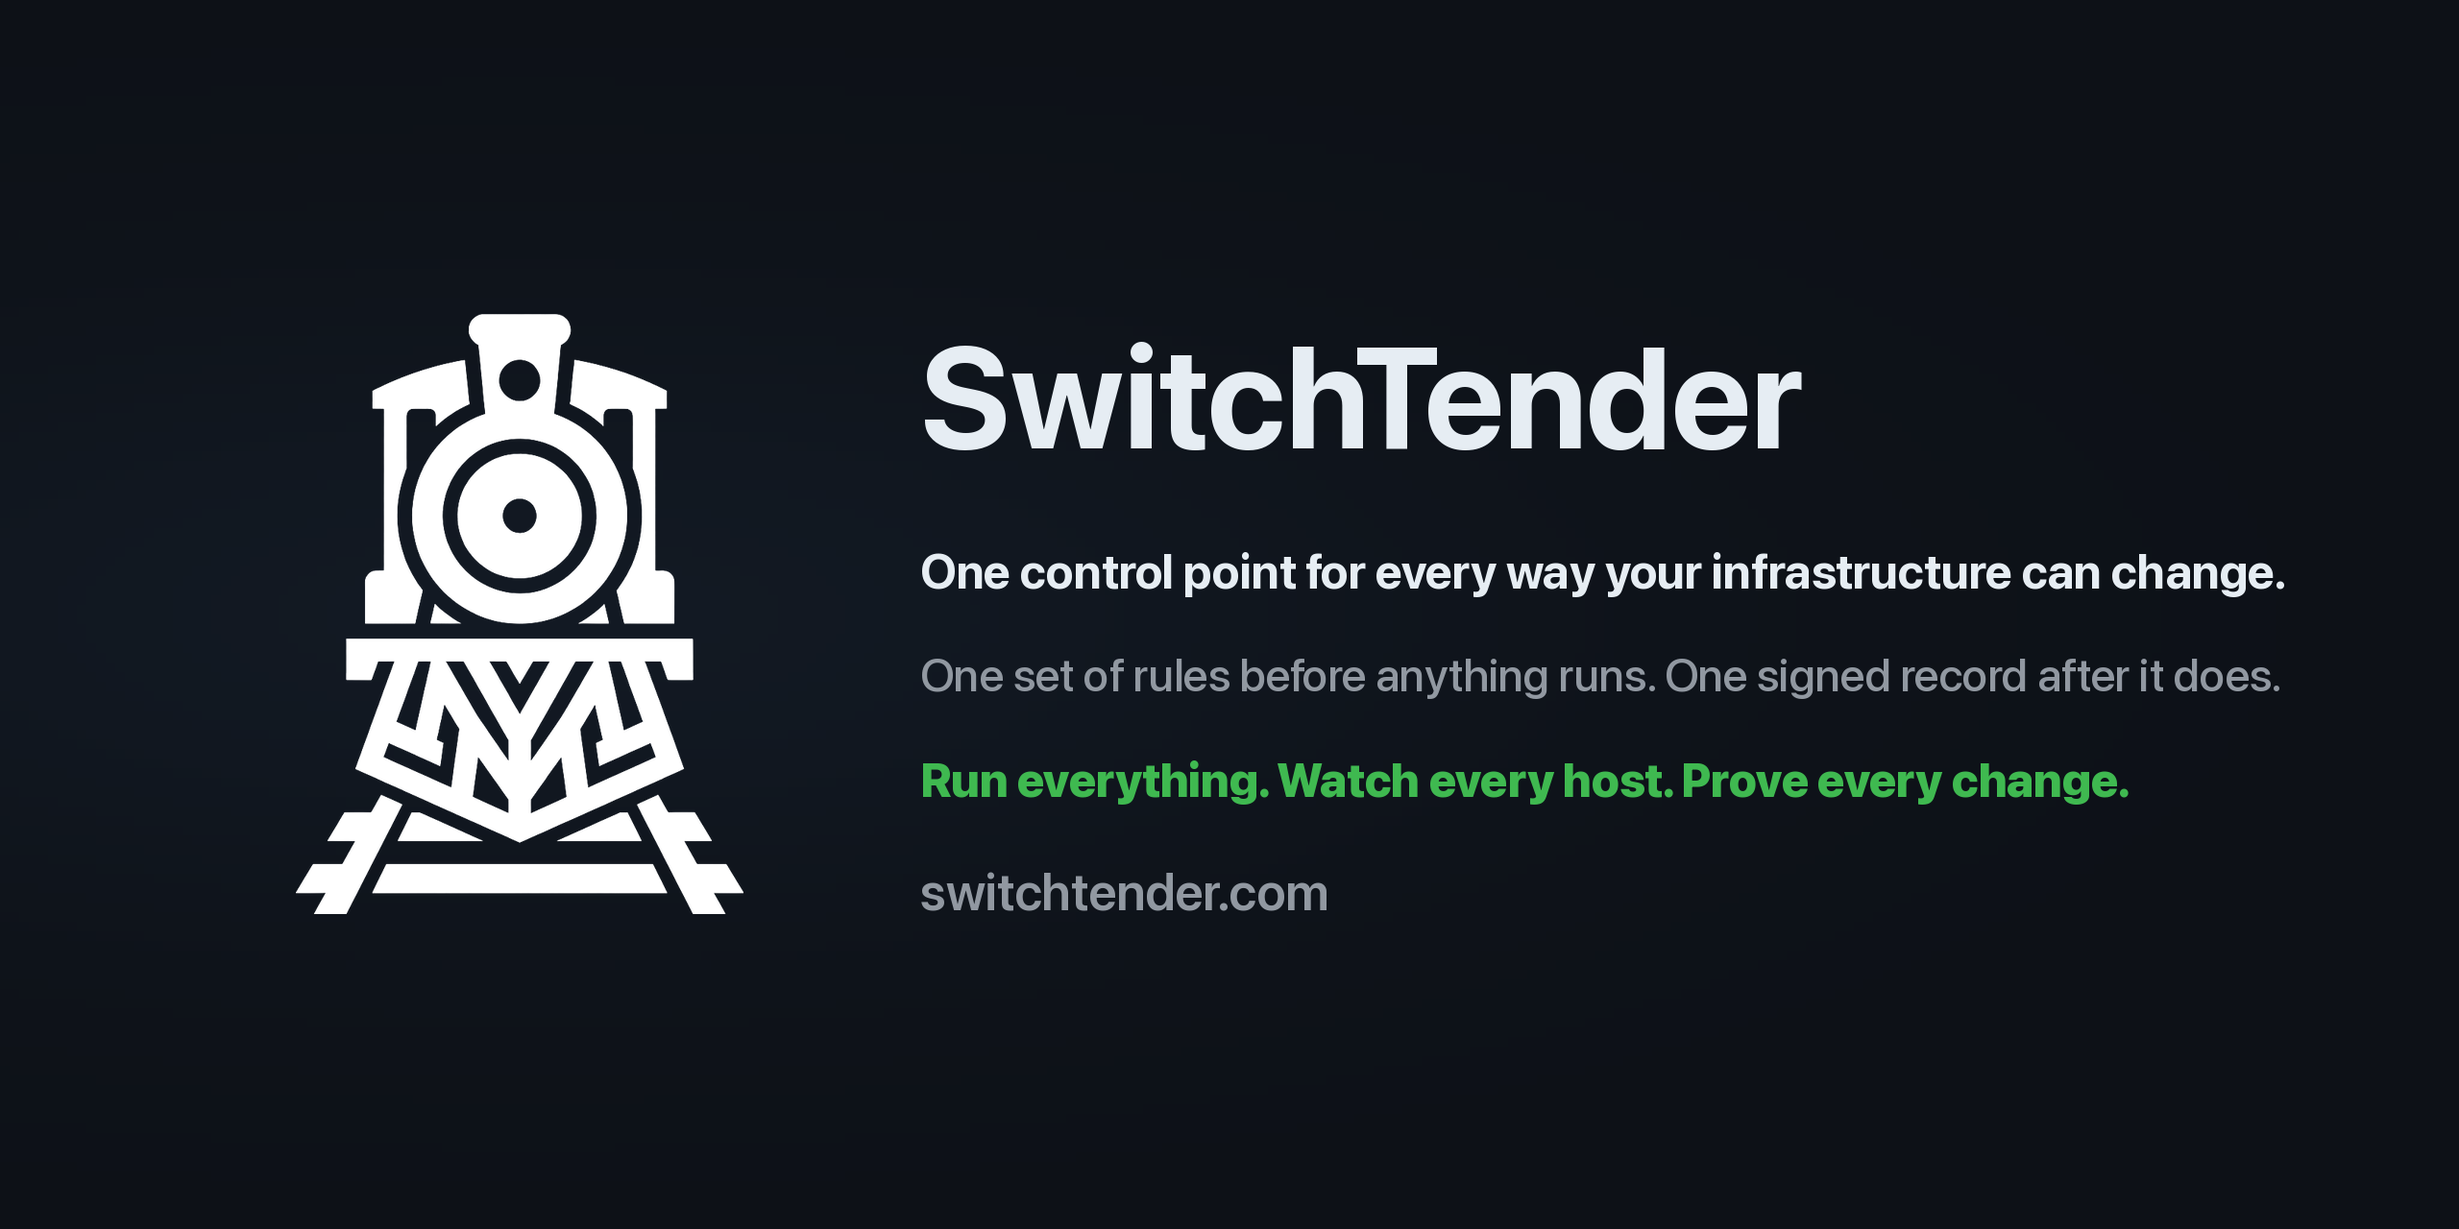
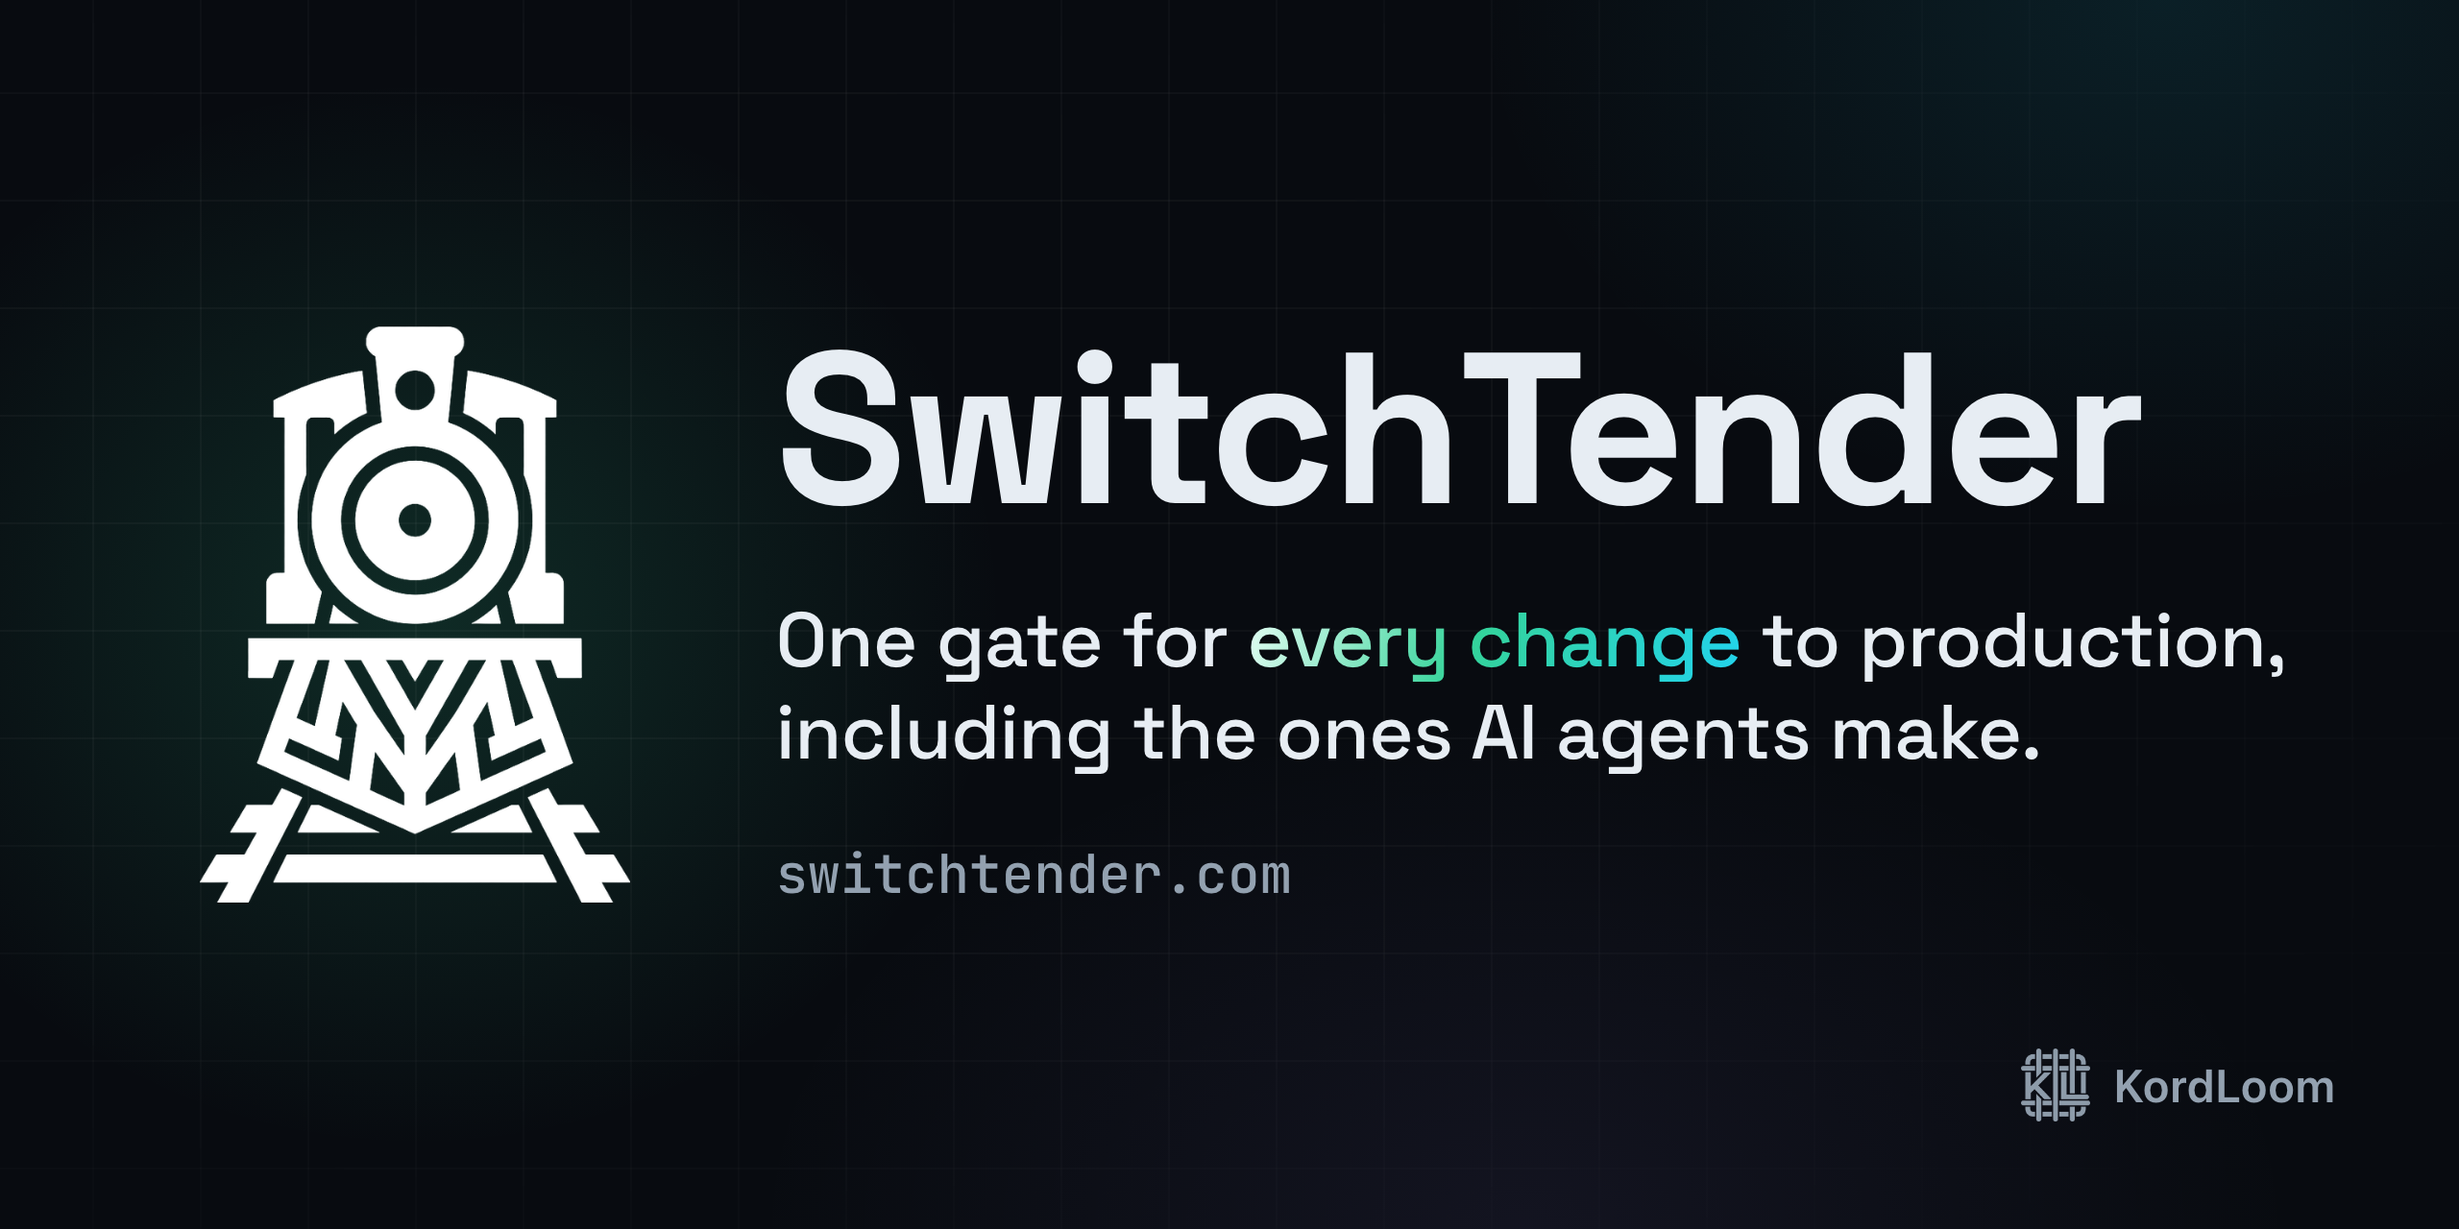
Replace the share image with the current headline

Changed region(s): [[0.3125, 0.2812, 0.9375, 0.6562], [0.0625, 0.25, 0.5625, 0.75], [0.8125, 0.8438, 0.9688, 0.9062]]

diff --git a/site/docs/sdk.html b/site/docs/sdk.html
@@ -10,11 +10,11 @@
 	<meta property="og:description" content="SwitchTender&#39;s seams are public. Import one package, github.com/kordloom/switchtender/sdk, register what you built, and run it either way: compiled into the server binary, or dropped next to a stock">
 	<meta property="og:type" content="article">
 	<meta property="og:url" content="https://switchtender.com/docs/sdk">
-	<meta property="og:image" content="https://switchtender.com/assets/switchtender-social-preview.png?v=10">
+	<meta property="og:image" content="https://switchtender.com/assets/switchtender-social-preview.png?v=11">
 	<meta name="twitter:card" content="summary_large_image">
 	<meta name="twitter:title" content="Extend SwitchTender in Go | SwitchTender docs">
 	<meta name="twitter:description" content="SwitchTender&#39;s seams are public. Import one package, github.com/kordloom/switchtender/sdk, register what you built, and run it either way: compiled into the server binary, or dropped next to a stock">
-	<meta name="twitter:image" content="https://switchtender.com/assets/switchtender-social-preview.png?v=10">
+	<meta name="twitter:image" content="https://switchtender.com/assets/switchtender-social-preview.png?v=11">
 	<script type="application/ld+json">
 {
  "@context": "https://schema.org",

diff --git a/site/docs/tutorial-migrate.html b/site/docs/tutorial-migrate.html
@@ -10,11 +10,11 @@
 	<meta property="og:description" content="You do not rebuild your automation by hand. SwitchTender reads an AWX, Semaphore, Chef, Puppet, Rundeck, or Jenkins export, a Rundeck project archive, or a plain crontab, and creates the equivalent">
 	<meta property="og:type" content="article">
 	<meta property="og:url" content="https://switchtender.com/docs/tutorial-migrate">
-	<meta property="og:image" content="https://switchtender.com/assets/switchtender-social-preview.png?v=10">
+	<meta property="og:image" content="https://switchtender.com/assets/switchtender-social-preview.png?v=11">
 	<meta name="twitter:card" content="summary_large_image">
 	<meta name="twitter:title" content="Migrate your setup | SwitchTender docs">
 	<meta name="twitter:description" content="You do not rebuild your automation by hand. SwitchTender reads an AWX, Semaphore, Chef, Puppet, Rundeck, or Jenkins export, a Rundeck project archive, or a plain crontab, and creates the equivalent">
-	<meta name="twitter:image" content="https://switchtender.com/assets/switchtender-social-preview.png?v=10">
+	<meta name="twitter:image" content="https://switchtender.com/assets/switchtender-social-preview.png?v=11">
 	<script type="application/ld+json">
 {
  "@context": "https://schema.org",

diff --git a/site/docs/agent-red-team.html b/site/docs/agent-red-team.html
@@ -10,11 +10,11 @@
 	<meta property="og:description" content="The agent documentation claims an AI agent cannot approve its own work, cannot widen its own reach, and cannot execute anything a person did not release. Documentation is a claim.">
 	<meta property="og:type" content="article">
 	<meta property="og:url" content="https://switchtender.com/docs/agent-red-team">
-	<meta property="og:image" content="https://switchtender.com/assets/switchtender-social-preview.png?v=10">
+	<meta property="og:image" content="https://switchtender.com/assets/switchtender-social-preview.png?v=11">
 	<meta name="twitter:card" content="summary_large_image">
 	<meta name="twitter:title" content="Red team: can an agent get a change past the gate? | SwitchTender docs">
 	<meta name="twitter:description" content="The agent documentation claims an AI agent cannot approve its own work, cannot widen its own reach, and cannot execute anything a person did not release. Documentation is a claim.">
-	<meta name="twitter:image" content="https://switchtender.com/assets/switchtender-social-preview.png?v=10">
+	<meta name="twitter:image" content="https://switchtender.com/assets/switchtender-social-preview.png?v=11">
 	<script type="application/ld+json">
 {
  "@context": "https://schema.org",

diff --git a/site/docs/side-door.html b/site/docs/side-door.html
@@ -10,11 +10,11 @@
 	<meta property="og:description" content="SwitchTender governs every change that goes through it. The side door is every way a change reaches production without going through it: a person&#39;s own SSH key, a cloud console login, a script run">
 	<meta property="og:type" content="article">
 	<meta property="og:url" content="https://switchtender.com/docs/side-door">
-	<meta property="og:image" content="https://switchtender.com/assets/switchtender-social-preview.png?v=10">
+	<meta property="og:image" content="https://switchtender.com/assets/switchtender-social-preview.png?v=11">
 	<meta name="twitter:card" content="summary_large_image">
 	<meta name="twitter:title" content="The side door | SwitchTender docs">
 	<meta name="twitter:description" content="SwitchTender governs every change that goes through it. The side door is every way a change reaches production without going through it: a person&#39;s own SSH key, a cloud console login, a script run">
-	<meta name="twitter:image" content="https://switchtender.com/assets/switchtender-social-preview.png?v=10">
+	<meta name="twitter:image" content="https://switchtender.com/assets/switchtender-social-preview.png?v=11">
 	<script type="application/ld+json">
 {
  "@context": "https://schema.org",

diff --git a/site/docs/tool-python.html b/site/docs/tool-python.html
@@ -10,11 +10,11 @@
 	<meta property="og:description" content="A Python run executes a script with python3. The script is the run&#39;s command. It suits a task that is more comfortable in Python than a shell: calling an API, reconciling state, or shaping data.">
 	<meta property="og:type" content="article">
 	<meta property="og:url" content="https://switchtender.com/docs/tool-python">
-	<meta property="og:image" content="https://switchtender.com/assets/switchtender-social-preview.png?v=10">
+	<meta property="og:image" content="https://switchtender.com/assets/switchtender-social-preview.png?v=11">
 	<meta name="twitter:card" content="summary_large_image">
 	<meta name="twitter:title" content="Python runs | SwitchTender docs">
 	<meta name="twitter:description" content="A Python run executes a script with python3. The script is the run&#39;s command. It suits a task that is more comfortable in Python than a shell: calling an API, reconciling state, or shaping data.">
-	<meta name="twitter:image" content="https://switchtender.com/assets/switchtender-social-preview.png?v=10">
+	<meta name="twitter:image" content="https://switchtender.com/assets/switchtender-social-preview.png?v=11">
 	<script type="application/ld+json">
 {
  "@context": "https://schema.org",

diff --git a/site/docs/concepts.html b/site/docs/concepts.html
@@ -10,11 +10,11 @@
 	<meta property="og:description" content="A run is one execution of a playbook against an inventory. SwitchTender shells out to ansible-playbook and captures both a human log and a structured event stream through an embedded callback plugin">
 	<meta property="og:type" content="article">
 	<meta property="og:url" content="https://switchtender.com/docs/concepts">
-	<meta property="og:image" content="https://switchtender.com/assets/switchtender-social-preview.png?v=10">
+	<meta property="og:image" content="https://switchtender.com/assets/switchtender-social-preview.png?v=11">
 	<meta name="twitter:card" content="summary_large_image">
 	<meta name="twitter:title" content="Concepts | SwitchTender docs">
 	<meta name="twitter:description" content="A run is one execution of a playbook against an inventory. SwitchTender shells out to ansible-playbook and captures both a human log and a structured event stream through an embedded callback plugin">
-	<meta name="twitter:image" content="https://switchtender.com/assets/switchtender-social-preview.png?v=10">
+	<meta name="twitter:image" content="https://switchtender.com/assets/switchtender-social-preview.png?v=11">
 	<script type="application/ld+json">
 {
  "@context": "https://schema.org",

diff --git a/site/docs/continuity.html b/site/docs/continuity.html
@@ -10,11 +10,11 @@
 	<meta property="og:description" content="What happens to your install, your evidence, and your access to the source if KordLoom disappears tomorrow. Vendor risk reviews ask this of every vendor, so here is the whole answer in one place.">
 	<meta property="og:type" content="article">
 	<meta property="og:url" content="https://switchtender.com/docs/continuity">
-	<meta property="og:image" content="https://switchtender.com/assets/switchtender-social-preview.png?v=10">
+	<meta property="og:image" content="https://switchtender.com/assets/switchtender-social-preview.png?v=11">
 	<meta name="twitter:card" content="summary_large_image">
 	<meta name="twitter:title" content="Continuity | SwitchTender docs">
 	<meta name="twitter:description" content="What happens to your install, your evidence, and your access to the source if KordLoom disappears tomorrow. Vendor risk reviews ask this of every vendor, so here is the whole answer in one place.">
-	<meta name="twitter:image" content="https://switchtender.com/assets/switchtender-social-preview.png?v=10">
+	<meta name="twitter:image" content="https://switchtender.com/assets/switchtender-social-preview.png?v=11">
 	<script type="application/ld+json">
 {
  "@context": "https://schema.org",

diff --git a/site/docs/desktop.html b/site/docs/desktop.html
@@ -10,11 +10,11 @@
 	<meta property="og:description" content="SwitchTender runs as a local desktop application with one command. Because the whole product is a single binary with an embedded web UI, it needs no database server, no container, and no Kubernetes.">
 	<meta property="og:type" content="article">
 	<meta property="og:url" content="https://switchtender.com/docs/desktop">
-	<meta property="og:image" content="https://switchtender.com/assets/switchtender-social-preview.png?v=10">
+	<meta property="og:image" content="https://switchtender.com/assets/switchtender-social-preview.png?v=11">
 	<meta name="twitter:card" content="summary_large_image">
 	<meta name="twitter:title" content="Desktop | SwitchTender docs">
 	<meta name="twitter:description" content="SwitchTender runs as a local desktop application with one command. Because the whole product is a single binary with an embedded web UI, it needs no database server, no container, and no Kubernetes.">
-	<meta name="twitter:image" content="https://switchtender.com/assets/switchtender-social-preview.png?v=10">
+	<meta name="twitter:image" content="https://switchtender.com/assets/switchtender-social-preview.png?v=11">
 	<script type="application/ld+json">
 {
  "@context": "https://schema.org",

diff --git a/site/docs/secrets.html b/site/docs/secrets.html
@@ -10,11 +10,11 @@
 	<meta property="og:description" content="Secrets live in credentials. Each is sealed at rest with AES-256-GCM, is never returned by the API, and reaches a run only while it executes, in the environment or a temporary file created mode 0600">
 	<meta property="og:type" content="article">
 	<meta property="og:url" content="https://switchtender.com/docs/secrets">
-	<meta property="og:image" content="https://switchtender.com/assets/switchtender-social-preview.png?v=10">
+	<meta property="og:image" content="https://switchtender.com/assets/switchtender-social-preview.png?v=11">
 	<meta name="twitter:card" content="summary_large_image">
 	<meta name="twitter:title" content="Secrets | SwitchTender docs">
 	<meta name="twitter:description" content="Secrets live in credentials. Each is sealed at rest with AES-256-GCM, is never returned by the API, and reaches a run only while it executes, in the environment or a temporary file created mode 0600">
-	<meta name="twitter:image" content="https://switchtender.com/assets/switchtender-social-preview.png?v=10">
+	<meta name="twitter:image" content="https://switchtender.com/assets/switchtender-social-preview.png?v=11">
 	<script type="application/ld+json">
 {
  "@context": "https://schema.org",

diff --git a/site/docs/comparison.html b/site/docs/comparison.html
@@ -10,11 +10,11 @@
 	<meta property="og:description" content="This page is an honest side-by-side. It states where SwitchTender is ahead, where it is even, and where it is behind, because credibility comes from being straight about all three.">
 	<meta property="og:type" content="article">
 	<meta property="og:url" content="https://switchtender.com/docs/comparison">
-	<meta property="og:image" content="https://switchtender.com/assets/switchtender-social-preview.png?v=10">
+	<meta property="og:image" content="https://switchtender.com/assets/switchtender-social-preview.png?v=11">
 	<meta name="twitter:card" content="summary_large_image">
 	<meta name="twitter:title" content="SwitchTender compared to the field | SwitchTender docs">
 	<meta name="twitter:description" content="This page is an honest side-by-side. It states where SwitchTender is ahead, where it is even, and where it is behind, because credibility comes from being straight about all three.">
-	<meta name="twitter:image" content="https://switchtender.com/assets/switchtender-social-preview.png?v=10">
+	<meta name="twitter:image" content="https://switchtender.com/assets/switchtender-social-preview.png?v=11">
 	<script type="application/ld+json">
 {
  "@context": "https://schema.org",

diff --git a/site/docs/reliability.html b/site/docs/reliability.html
@@ -10,11 +10,11 @@
 	<meta property="og:description" content="SwitchTender treats a run as durable, attributable work. It runs many at once under a fixed bound, coordinates failure instead of ignoring it, recovers when a worker dies, and keeps its store">
 	<meta property="og:type" content="article">
 	<meta property="og:url" content="https://switchtender.com/docs/reliability">
-	<meta property="og:image" content="https://switchtender.com/assets/switchtender-social-preview.png?v=10">
+	<meta property="og:image" content="https://switchtender.com/assets/switchtender-social-preview.png?v=11">
 	<meta name="twitter:card" content="summary_large_image">
 	<meta name="twitter:title" content="Reliability | SwitchTender docs">
 	<meta name="twitter:description" content="SwitchTender treats a run as durable, attributable work. It runs many at once under a fixed bound, coordinates failure instead of ignoring it, recovers when a worker dies, and keeps its store">
-	<meta name="twitter:image" content="https://switchtender.com/assets/switchtender-social-preview.png?v=10">
+	<meta name="twitter:image" content="https://switchtender.com/assets/switchtender-social-preview.png?v=11">
 	<script type="application/ld+json">
 {
  "@context": "https://schema.org",

diff --git a/site/docs/migration.html b/site/docs/migration.html
@@ -10,11 +10,11 @@
 	<meta property="og:description" content="SwitchTender imports an AWX, Semaphore, Rundeck, Jenkins, Chef, or Puppet export, or a plain crontab, and creates the equivalent objects, so moving over is one command rather than a rebuild.">
 	<meta property="og:type" content="article">
 	<meta property="og:url" content="https://switchtender.com/docs/migration">
-	<meta property="og:image" content="https://switchtender.com/assets/switchtender-social-preview.png?v=10">
+	<meta property="og:image" content="https://switchtender.com/assets/switchtender-social-preview.png?v=11">
 	<meta name="twitter:card" content="summary_large_image">
 	<meta name="twitter:title" content="Migration | SwitchTender docs">
 	<meta name="twitter:description" content="SwitchTender imports an AWX, Semaphore, Rundeck, Jenkins, Chef, or Puppet export, or a plain crontab, and creates the equivalent objects, so moving over is one command rather than a rebuild.">
-	<meta name="twitter:image" content="https://switchtender.com/assets/switchtender-social-preview.png?v=10">
+	<meta name="twitter:image" content="https://switchtender.com/assets/switchtender-social-preview.png?v=11">
 	<script type="application/ld+json">
 {
  "@context": "https://schema.org",
